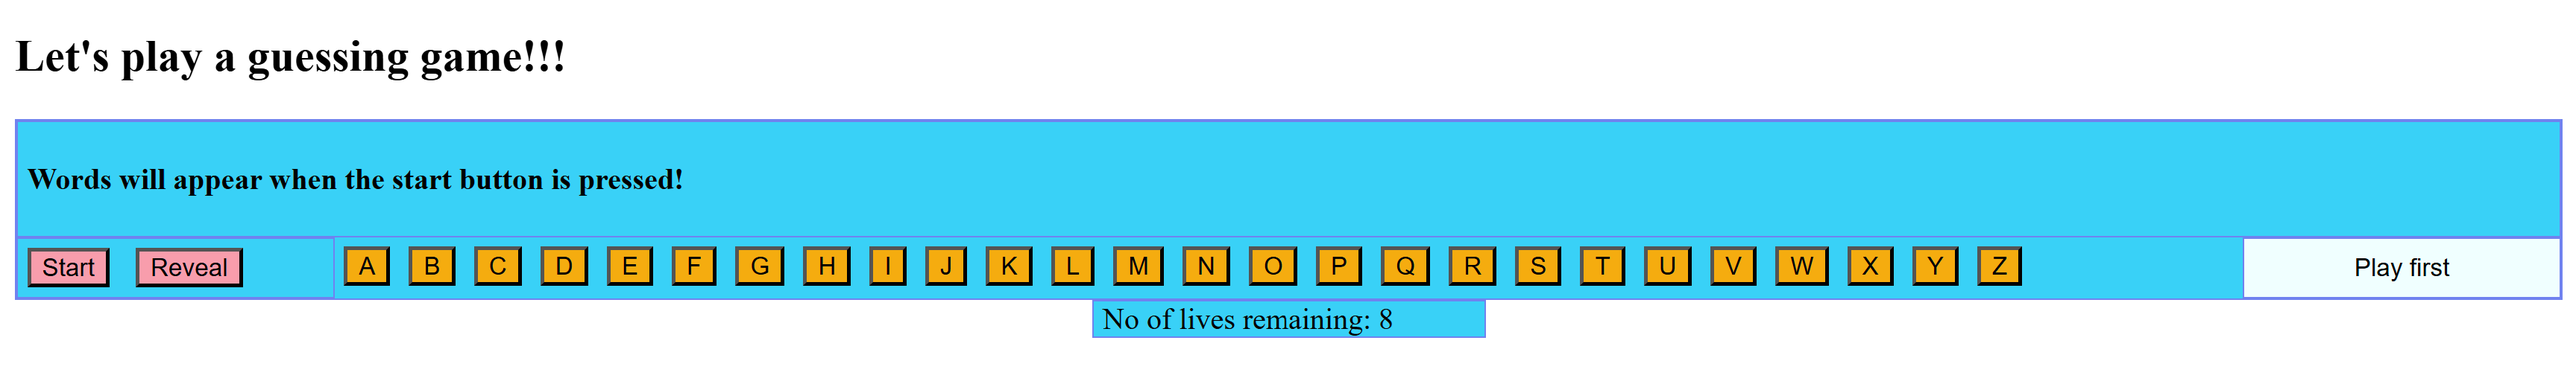
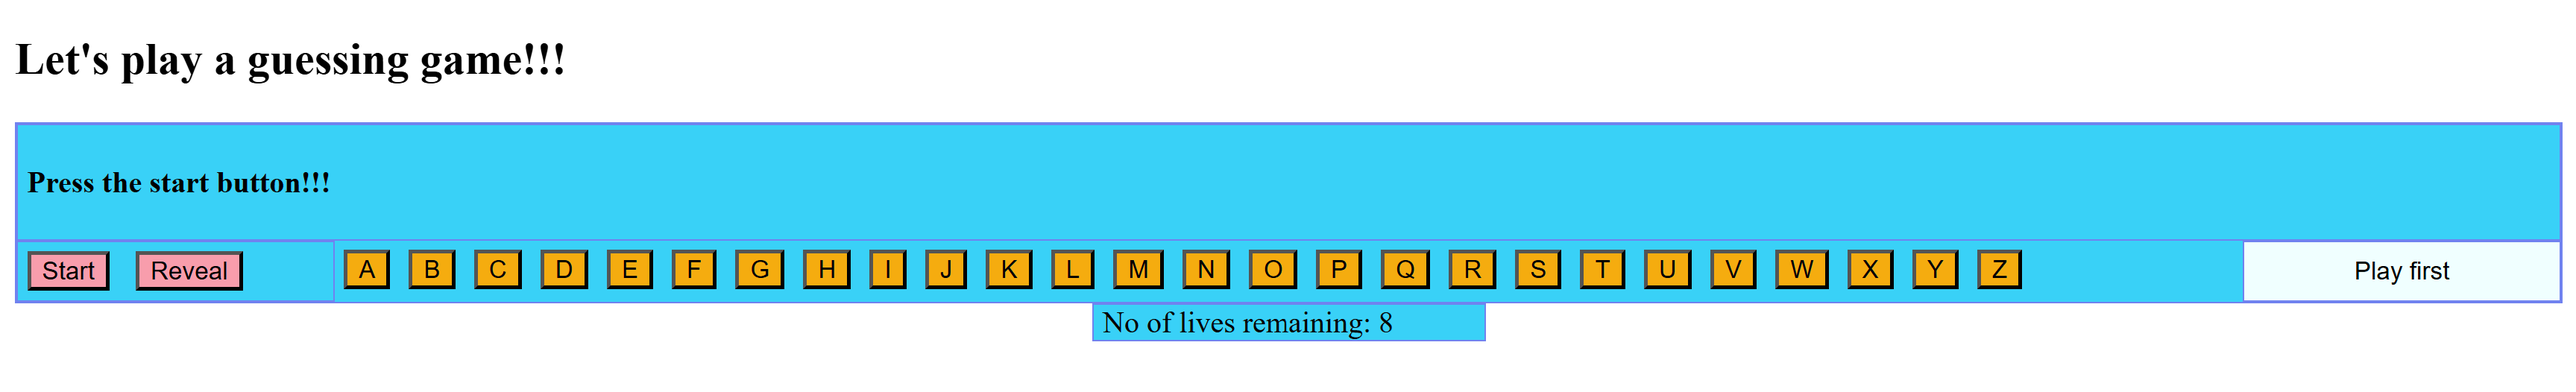
photo changed

diff --git a/index.html b/index.html
@@ -10,7 +10,7 @@
     <h2>Let's play a guessing game!!!</h2>
     <div class="container">
       <div class="title" id="title">
-        <h4 id="artist">Words will appear when the start button is pressed!</h1>
+        <h4 id="artist">Press the start button!!!</h1>
       </div>
 
       <div class="game-body">
